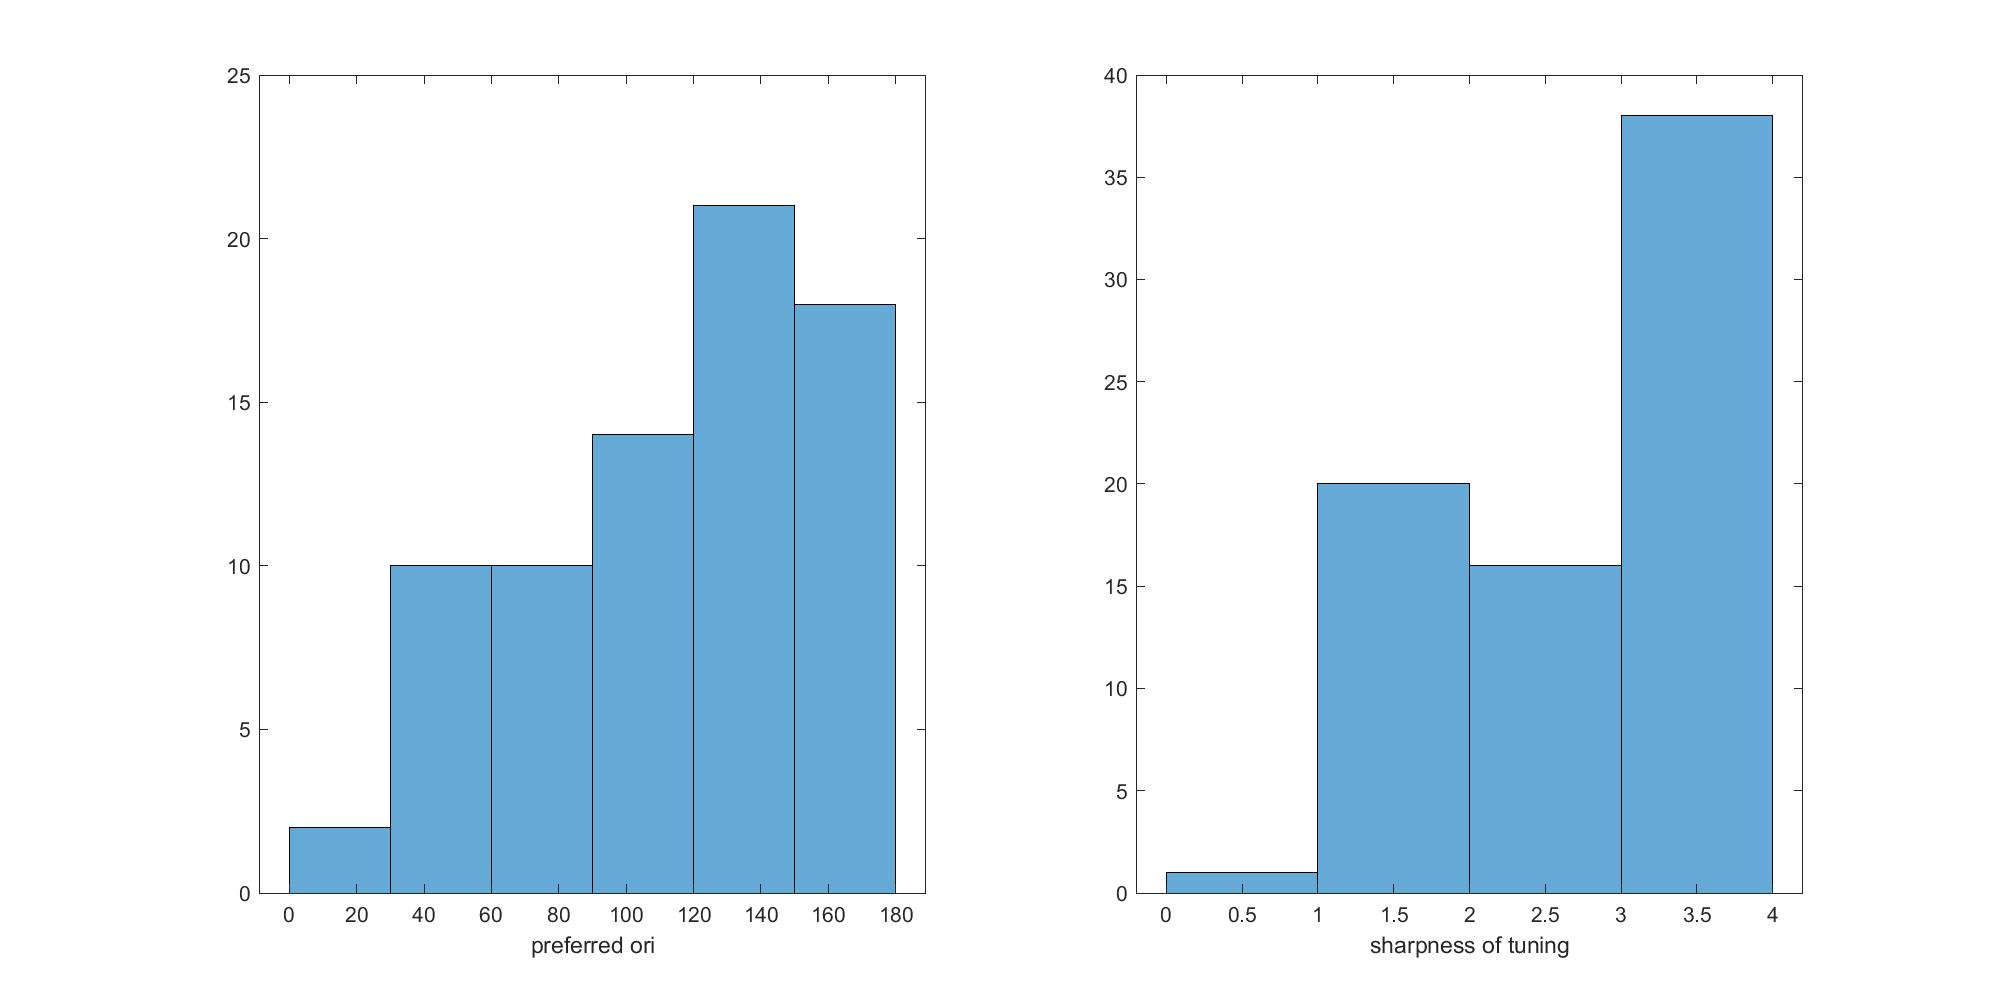
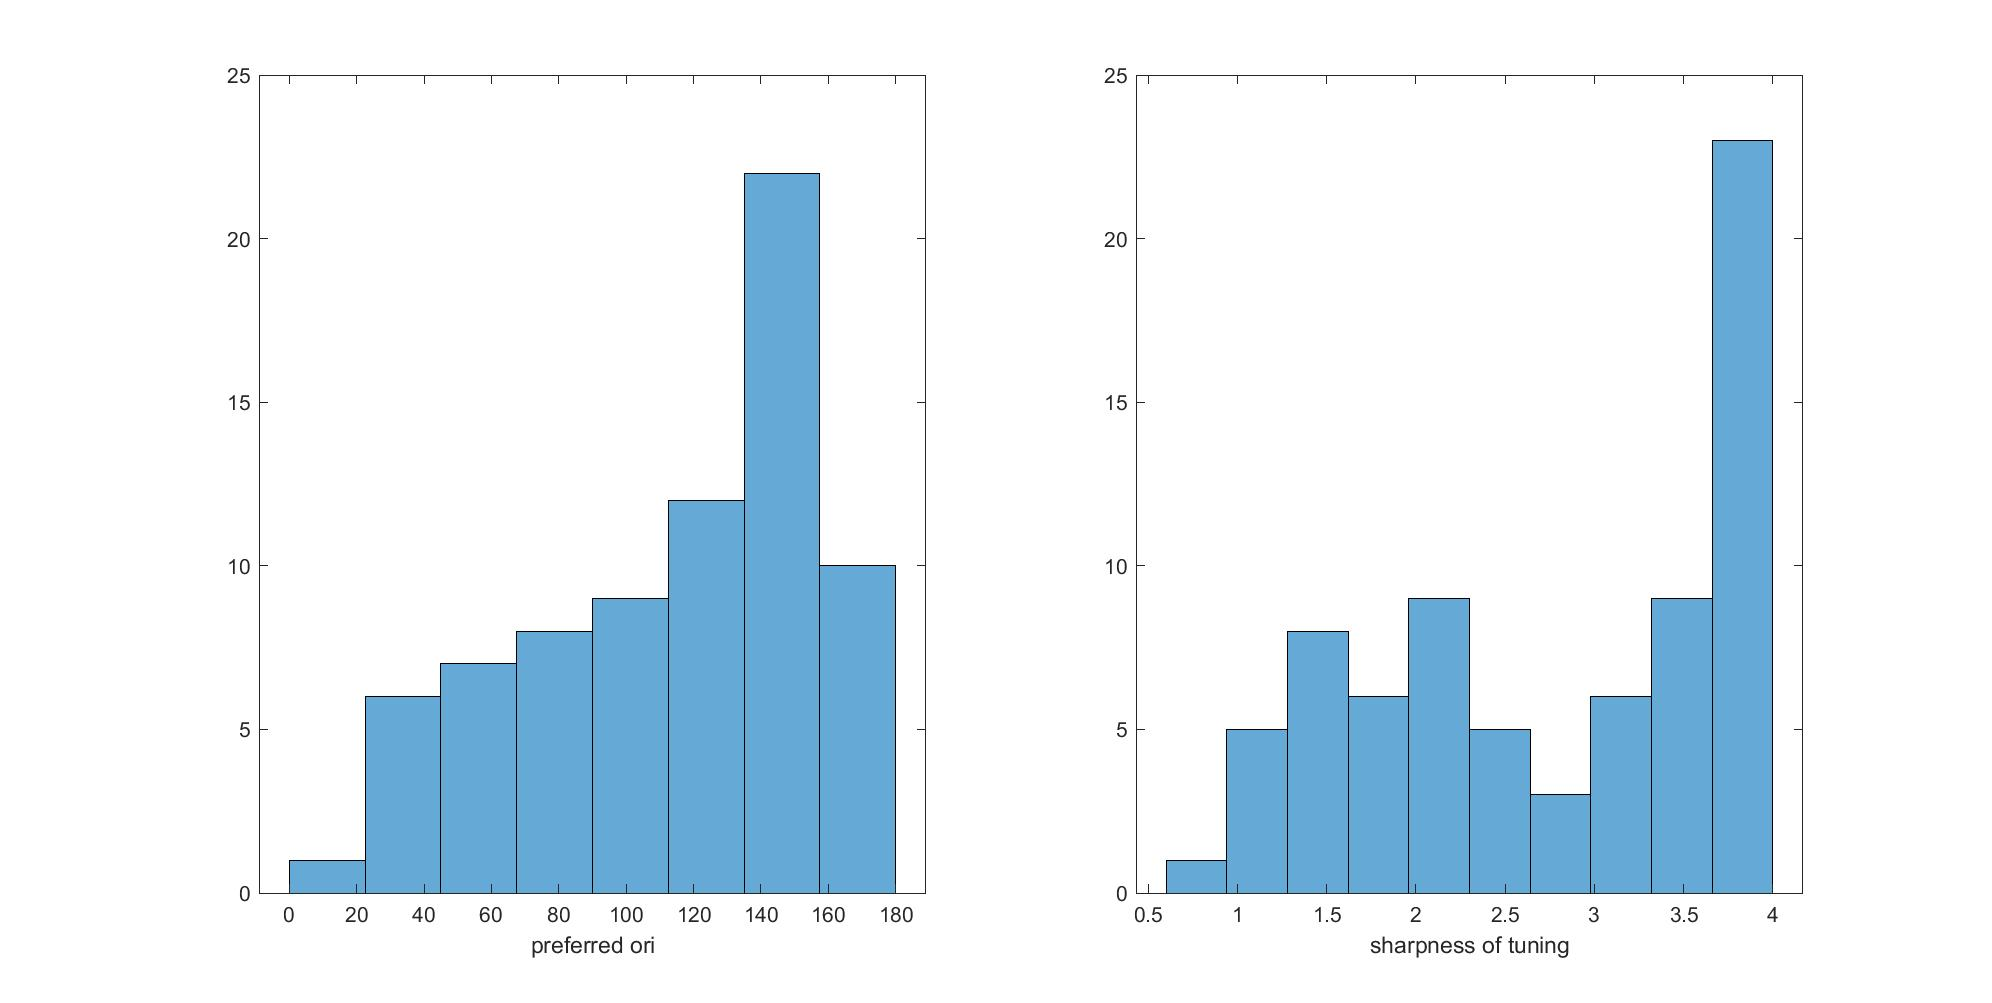
debug 4-5

diff --git a/code/OriAnalysisStepByStep.m b/code/OriAnalysisStepByStep.m
@@ -269,7 +269,7 @@ sum(sig_ori_cell)
 ori_cell = good_fit_cell & sig_ori_cell;
 sum(ori_cell)
 
-%% distribution
+%% cell distribution
 
 xname = {'segmented'; 'sig ori-tuned'; 'good fit'; 'both'};
 y = [ncell, sum(sig_ori_cell), sum(good_fit_cell), sum(ori_cell)]; 
@@ -288,28 +288,19 @@ set(gcf, 'Position', get(0, 'Screensize'));
 saveas(gcf, 'number of cells.jpg')
 close
 
-%%
+%% ori tuning param dist
 % fit_param(icell,:) = [icell, b_hat, k1_hat, R1_hat, u1_hat, sse, R_square];
 ori_pref_qualified = rad2deg(fit_param(ori_cell, 5));
 ori_pref_qualified(ori_pref_qualified<0) = ori_pref_qualified(ori_pref_qualified<0) + 180;
 ori_sharp_qualified = fit_param(ori_cell, 3);
 
 subplot(1,2,1)
-edges = Ori_list;
+edges = [Ori_list, 180];
 histogram(ori_pref_qualified, edges)
-% x = 1 : length(ori_pref_qualified);
-% for iloc = 1:numel(ori_pref_qualified)
-%     text(x(iloc),ori_pref_qualified(iloc), num2str(ori_pref_qualified(iloc),'%0.2f'),...
-%                'HorizontalAlignment','center', 'VerticalAlignment','bottom')
-% end
 xlabel('preferred ori')
+
 subplot(1,2,2)
 histogram(ori_sharp_qualified, 10)
-% x = 1 : length(ori_sharp_qualified);
-% for iloc = 1:numel(ori_sharp_qualified)
-%     text(x(iloc),ori_sharp_qualified(iloc), num2str(ori_sharp_qualified(iloc),'%0.2f'),...
-%                'HorizontalAlignment','center', 'VerticalAlignment','bottom')
-% end
 xlabel('sharpness of tuning')
 
 set(gcf, 'Position', get(0, 'Screensize'));
